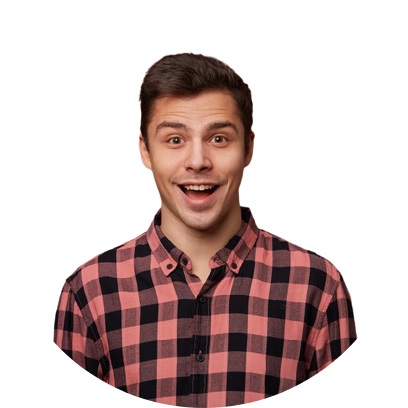
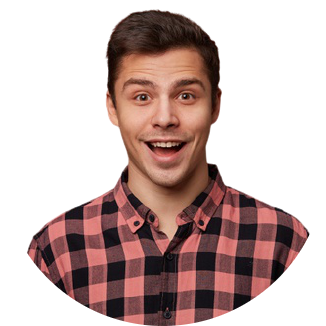
AboutMe Component Setup

diff --git a/src/components/AboutMe/AboutMe.jsx b/src/components/AboutMe/AboutMe.jsx
@@ -1,0 +1,43 @@
+import React, { useEffect } from "react";
+import { Col, Container, Row } from "react-bootstrap";
+import face from "../../assets/Image/face.png";
+import { init } from "ityped";
+
+const AboutMe = () => {
+  //spanタグの文字切り替え
+  useEffect(() => {
+    const myElement = document.querySelector("#myElement");
+    init(myElement, {
+      showCursor: false,
+      strings: ["Web Developer", "Online Instructor!"],
+    });
+  }, []);
+
+  return (
+    <>
+      <Container className='text-center'>
+        <h1 className='ServiceMainTitle'>About Me</h1>
+        <div className='button'></div>
+
+        <Row>
+          <Col lg={6} md={6} sm={12}>
+            <div className='aboutMeImage'>
+              <img className='aboutImg' src={face} alt='' />
+            </div>
+          </Col>
+          <Col lg={6} md={6} sm={12}>
+            <div className='aboutMeBody'>
+              <h2 className='aboutMeDetails'>HI There, I'm</h2>
+              <h2 className='aboutMeTitle'>Hoge</h2>
+              <h3 className='aboutMeDetails'>
+                Work as <span id='myElement'></span>
+              </h3>
+            </div>
+          </Col>
+        </Row>
+      </Container>
+    </>
+  );
+};
+
+export default AboutMe;

diff --git a/src/assets/css/custom.css b/src/assets/css/custom.css
@@ -290,3 +290,42 @@
   font-size: 15px;
   font-weight: 400;
 }
+
+.aboutMeImage{
+  width: 550px;
+  height: 550px;
+  background-color: #051b35;
+  border-radius: 50%;
+  display: flex;
+  align-items: flex-end;
+  justify-content: center;
+  float: right;
+}
+
+.aboutImg{
+  height: 100%;
+  margin-top: 210px;
+}
+
+.aboutMeBody{
+  width: 100%;
+  height: 100%;
+  /* padding-left: flex; */
+  display: flex;
+  flex-direction: column;
+  justify-content: center;
+}
+
+.aboutMeTitle{
+  color: #051b35;
+  font-family: 'Montserrat', sans-serif;
+  font-weight: 700;
+  font-size: 40px;
+}
+
+.aboutMeDetails{
+  color: #051b35;
+  font-family: 'Raleway', sans-serif;
+  font-weight: 600;
+  font-size: 30px;
+}

diff --git a/src/App.jsx b/src/App.jsx
@@ -1,4 +1,5 @@
 import React from "react";
+import AboutMe from "./components/AboutMe/AboutMe";
 import Analysis from "./components/Analysis/Analysis";
 import ClientReview from "./components/ClientReview/ClientReview";
 import Courses from "./components/Courses/Courses";
@@ -21,6 +22,7 @@ function App() {
       <Courses />
       <Video />
       <ClientReview />
+      <AboutMe />
     </div>
   );
 }
